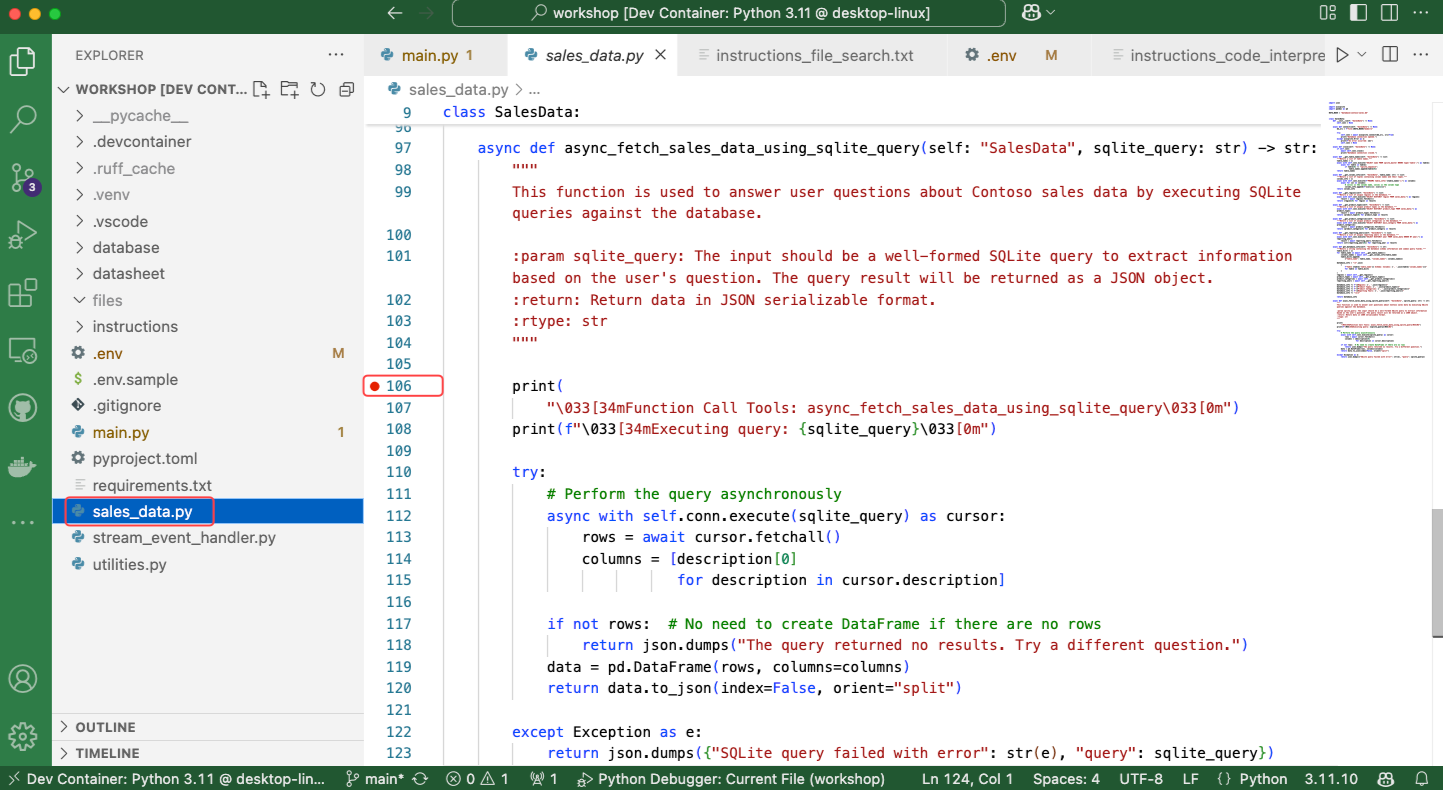
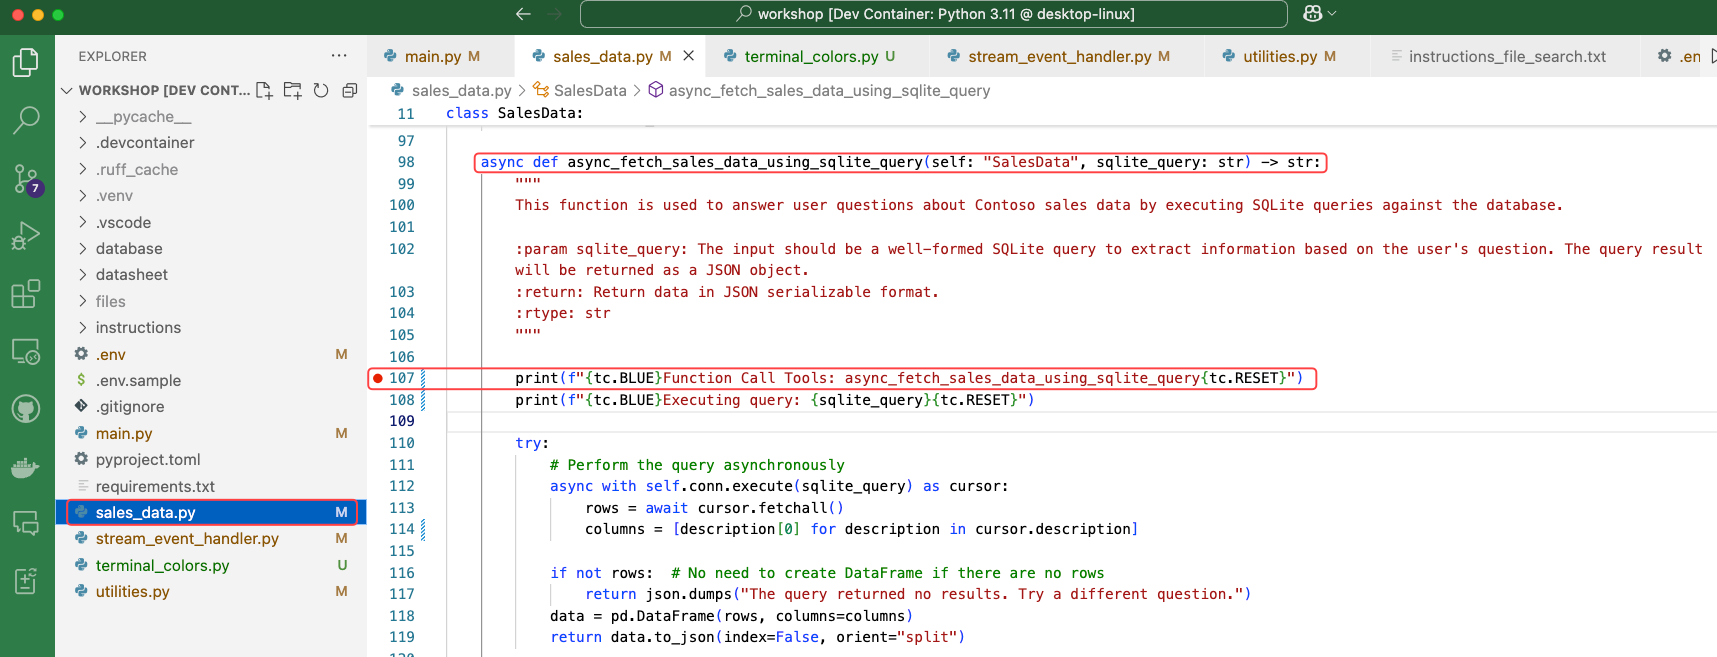
clean up of comments and terminal colors

Changed region(s): [[0.0, 0.0, 1.0, 1.0], [0.9667, 0.6393, 1.0, 0.8219]]

diff --git a/src/workshop/utilities.py b/src/workshop/utilities.py
@@ -4,17 +4,22 @@ from pathlib import Path
 from azure.ai.projects.aio import AIProjectClient
 from azure.ai.projects.models import MessageImageFileDetails, ThreadMessage, VectorStore
 
+from terminal_colors import TerminalColors as tc
+
 
 class Utilities:
 
     def log_msg_green(self, msg: str) -> None:
-        print(f"\033[32m{msg}\033[0m")
+        """Print a message in green."""
+        print(f"{tc.GREEN}{msg}{tc.RESET}")
 
     def log_msg_purple(self, msg: str) -> None:
-        print(f"\033[35m{msg}\033[0m")
+        """Print a message in purple."""
+        print(f"{tc.PURPLE}{msg}{tc.RESET}")
 
     def log_token_blue(self, msg: str) -> None:
-        print(f"\033[34m{msg}\033[0m", end="", flush=True)
+        """Print a token in blue."""
+        print(f"{tc.BLUE}{msg}{tc.RESET}", end="", flush=True)
 
     async def get_file(self, project_client: AIProjectClient, file_id: str, attachment_name: str) -> None:
         """Retrieve the image file and save it to the local disk."""
@@ -38,6 +43,7 @@ class Utilities:
         await project_client.agents.delete_file(file_id)
 
     async def get_files(self, message: ThreadMessage, project_client: AIProjectClient) -> None:
+        """Get the image files from the message and kickoff download."""
         if message.image_contents:
             for index, image in enumerate(message.image_contents, start=0):
                 attachment_name = (
@@ -50,15 +56,3 @@ class Utilities:
                     "unknown" if not message.file_path_annotations else message.file_path_annotations[index].text
                 )
                 await self.get_file(project_client, attachment.file_id, attachment_name)
-
-    async def upload_file(self, file_path: str) -> VectorStore:
-        """ """
-        pass
-
-        # returns a vector_store
-
-        # file = project_client.agents.upload_file_and_poll(file_path="../../datasheet/contoso-tents-datasheet.pdf", purpose="assistants")
-        # print(f"Uploaded file, file ID: {file.id}")
-
-        # vector_store = project_client.agents.create_vector_store_and_poll(file_ids=[file.id], name="my_vectorstore")
-        # print(f"Created vector store, vector store ID: {vector_store.id}")

diff --git a/src/workshop/main.py b/src/workshop/main.py
@@ -16,6 +16,7 @@ from azure.identity import DefaultAzureCredential
 from stream_event_handler import StreamEventHandler
 from sales_data import SalesData
 from utilities import Utilities
+from terminal_colors import TerminalColors as tc
 
 logging.basicConfig(level=logging.ERROR)
 logger = logging.getLogger(__name__)
@@ -42,14 +43,14 @@ functions = AsyncFunctionTool(
     }
 )
 
-# INSTRUCTIONS_FILE = "instructions/instructions_function_calling.txt"
+INSTRUCTIONS_FILE = "instructions/instructions_function_calling.txt"
 # INSTRUCTIONS_FILE = "instructions/instructions_code_interpreter.txt"
 # INSTRUCTIONS_FILE = "instructions/instructions_code_bing_grounding.txt"
 
 
 async def add_agent_tools():
     """Add tools for the agent."""
-    # toolset.add(functions)
+    toolset.add(functions)
 
     # code_interpreter = CodeInterpreterTool()
     # toolset.add(code_interpreter)
@@ -71,6 +72,7 @@ async def initialize() -> tuple[Agent, AgentThread]:
         with open(INSTRUCTIONS_FILE, "r") as file:
             instructions = file.read()
 
+        # Replace the placeholder with the database schema string
         instructions = instructions.replace("{database_schema_string}", database_schema_string)
 
         print("Creating agent...")
@@ -79,7 +81,7 @@ async def initialize() -> tuple[Agent, AgentThread]:
             name="Contoso Sales AI Agent",
             instructions=instructions,
             toolset=toolset,
-            temperature=0.2,
+            temperature=TEMPERATURE,
             headers={"x-ms-enable-preview": "true"},
         )
         print(f"Created agent, ID: {agent.id}")
@@ -130,8 +132,9 @@ async def main() -> None:
     agent, thread = await initialize()
 
     while True:
-        prompt = input("\033[32mEnter your query: \033[0m")
-        if prompt == "exit":
+        # Get user input prompt in the terminal using a pretty shade of green
+        prompt = input(f"{tc.GREEN}Enter your query (type exit to finish): {tc.RESET}")
+        if prompt.lower() == "exit":
             break
         if not prompt:
             continue

diff --git a/src/workshop/stream_event_handler.py b/src/workshop/stream_event_handler.py
@@ -17,6 +17,7 @@ from utilities import Utilities
 
 
 class StreamEventHandler(AsyncAgentEventHandler[str]):
+    """Handle LLM streaming events and tokens."""
 
     def __init__(self, functions: AsyncFunctionTool, project_client: AIProjectClient, utilities: Utilities) -> None:
         self.functions = functions
@@ -25,9 +26,11 @@ class StreamEventHandler(AsyncAgentEventHandler[str]):
         super().__init__()
 
     async def on_message_delta(self, delta: MessageDeltaChunk) -> None:
+        """Handle message delta events. This will be the streamed token"""
         self.util.log_token_blue(delta.text)
 
     async def on_thread_message(self, message: ThreadMessage) -> None:
+        """Handle thread message events."""
         if message.status == MessageStatus.COMPLETED:
             print()
         self.util.log_msg_purple(f"ThreadMessage created. ID: {message.id}, " f"Status: {message.status}")
@@ -35,6 +38,7 @@ class StreamEventHandler(AsyncAgentEventHandler[str]):
         await self.util.get_files(message, self.project_client)
 
     async def on_thread_run(self, run: ThreadRun) -> None:
+        """Handle thread run events"""
         # print(f"ThreadRun status: {run.status}")
 
         if run.status == "failed":
@@ -52,7 +56,9 @@ class StreamEventHandler(AsyncAgentEventHandler[str]):
         print(f"An error occurred. Data: {data}")
 
     async def on_done(self) -> None:
+        """Handle stream completion."""
         self.util.log_msg_purple(f"\nStream completed.")
 
     async def on_unhandled_event(self, event_type: str, event_data: Any) -> None:
+        """Handle unhandled events."""
         print(f"Unhandled Event Type: {event_type}, Data: {event_data}")

diff --git a/src/workshop/sales_data.py b/src/workshop/sales_data.py
@@ -3,6 +3,8 @@ import json
 import aiosqlite
 import pandas as pd
 
+from terminal_colors import TerminalColors as tc
+
 DATA_BASE = "database/contoso-sales.db"
 
 
@@ -72,8 +74,7 @@ class SalesData:
         table_dicts = []
         for table_name in await self.__get_table_names():
             columns_names = await self.__get_column_info(table_name)
-            table_dicts.append(
-                {"table_name": table_name, "column_names": columns_names})
+            table_dicts.append({"table_name": table_name, "column_names": columns_names})
 
         database_info = "\n".join(
             [
@@ -103,16 +104,14 @@ class SalesData:
         :rtype: str
         """
 
-        print(
-            "\033[34mFunction Call Tools: async_fetch_sales_data_using_sqlite_query\033[0m")
-        print(f"\033[34mExecuting query: {sqlite_query}\033[0m")
+        print(f"{tc.BLUE}Function Call Tools: async_fetch_sales_data_using_sqlite_query{tc.RESET}")
+        print(f"{tc.BLUE}Executing query: {sqlite_query}{tc.RESET}")
 
         try:
             # Perform the query asynchronously
             async with self.conn.execute(sqlite_query) as cursor:
                 rows = await cursor.fetchall()
-                columns = [description[0]
-                           for description in cursor.description]
+                columns = [description[0] for description in cursor.description]
 
             if not rows:  # No need to create DataFrame if there are no rows
                 return json.dumps("The query returned no results. Try a different question.")

diff --git a/src/workshop/terminal_colors.py b/src/workshop/terminal_colors.py
@@ -1,0 +1,53 @@
+class TerminalColors:
+    # Reset
+    RESET = "\033[0m"
+    
+    # Text colors
+    BLACK = "\033[30m"
+    RED = "\033[31m"
+    GREEN = "\033[32m"
+    YELLOW = "\033[33m"
+    BLUE = "\033[34m"
+    MAGENTA = "\033[35m"
+    CYAN = "\033[36m"
+    WHITE = "\033[37m"
+    PURPLE = "\033[35m"
+    
+    # Bright text colors
+    BRIGHT_BLACK = "\033[90m"
+    BRIGHT_RED = "\033[91m"
+    BRIGHT_GREEN = "\033[92m"
+    BRIGHT_YELLOW = "\033[93m"
+    BRIGHT_BLUE = "\033[94m"
+    BRIGHT_MAGENTA = "\033[95m"
+    BRIGHT_CYAN = "\033[96m"
+    BRIGHT_WHITE = "\033[97m"
+    
+    # Background colors
+    BG_BLACK = "\033[40m"
+    BG_RED = "\033[41m"
+    BG_GREEN = "\033[42m"
+    BG_YELLOW = "\033[43m"
+    BG_BLUE = "\033[44m"
+    BG_MAGENTA = "\033[45m"
+    BG_CYAN = "\033[46m"
+    BG_WHITE = "\033[47m"
+
+    # Bright background colors
+    BG_BRIGHT_BLACK = "\033[100m"
+    BG_BRIGHT_RED = "\033[101m"
+    BG_BRIGHT_GREEN = "\033[102m"
+    BG_BRIGHT_YELLOW = "\033[103m"
+    BG_BRIGHT_BLUE = "\033[104m"
+    BG_BRIGHT_MAGENTA = "\033[105m"
+    BG_BRIGHT_CYAN = "\033[106m"
+    BG_BRIGHT_WHITE = "\033[107m"
+
+    # Styles
+    BOLD = "\033[1m"
+    UNDERLINE = "\033[4m"
+    REVERSED = "\033[7m"
+
+# Example usage:
+print(f"{TerminalColors.RED}This is red text{TerminalColors.RESET}")
+print(f"{TerminalColors.GREEN}{TerminalColors.BOLD}This is bold green text{TerminalColors.RESET}")
